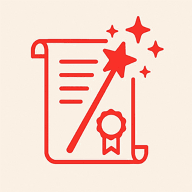
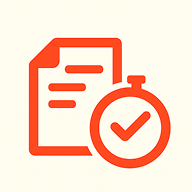
fixed datetime issue

Changed region(s): [[0.125, 0.125, 0.9062, 0.9062], [0.6562, 0.0625, 0.7812, 0.2188], [0.75, 0.2188, 0.875, 0.3125]]

diff --git a/src/Services/Services/SubscriptionService.cs b/src/Services/Services/SubscriptionService.cs
@@ -153,6 +153,14 @@ public class SubscriptionService
             existingPlanDetail = this.planRepository.GetById(subscription.AmpplanId);
         }
 
+        var startDate = subscription.StartDate.HasValue && subscription.StartDate.Value > DateTime.MinValue
+            ? new DateTimeOffset(subscription.StartDate.Value, TimeSpan.Zero)
+            : DateTimeOffset.UtcNow;
+        
+        var endDate = subscription.EndDate.HasValue && subscription.EndDate.Value > DateTime.MinValue
+            ? new DateTimeOffset(subscription.EndDate.Value, TimeSpan.Zero)
+            : DateTimeOffset.UtcNow.AddMonths(1);
+
         SubscriptionResultExtension subscritpionDetail = new SubscriptionResultExtension
         {
             Id = subscription.AmpsubscriptionId,
@@ -161,8 +169,8 @@ public class SubscriptionService
             OfferId = subscription.AmpOfferId,
             Term = new TermResult
             {
-                StartDate = subscription.StartDate.GetValueOrDefault(),
-                EndDate = subscription.EndDate.GetValueOrDefault(),
+                StartDate = startDate,
+                EndDate = endDate,
             },
             Quantity = subscription.Ampquantity,
             Name = subscription.Name,

diff --git a/src/AdminSite/Controllers/HomeController.cs b/src/AdminSite/Controllers/HomeController.cs
@@ -290,7 +290,7 @@ public class HomeController : BaseController
                 {
                     Plans planDetail = allPlans.FirstOrDefault(p => p.PlanId == subscription.AmpplanId);
                     SubscriptionResultExtension subscriptionDetailExtension = this.subscriptionService.PrepareSubscriptionResponse(subscription, planDetail);
-                    subscriptionDetailExtension.IsPerUserPlan = planDetail.IsPerUser.HasValue ? planDetail.IsPerUser.Value : false;
+                    subscriptionDetailExtension.IsPerUserPlan = planDetail?.IsPerUser ?? false;
                     if (subscriptionDetailExtension != null && subscriptionDetailExtension.SubscribeId > 0)
                     {
                         allSubscriptions.Add(subscriptionDetailExtension);
